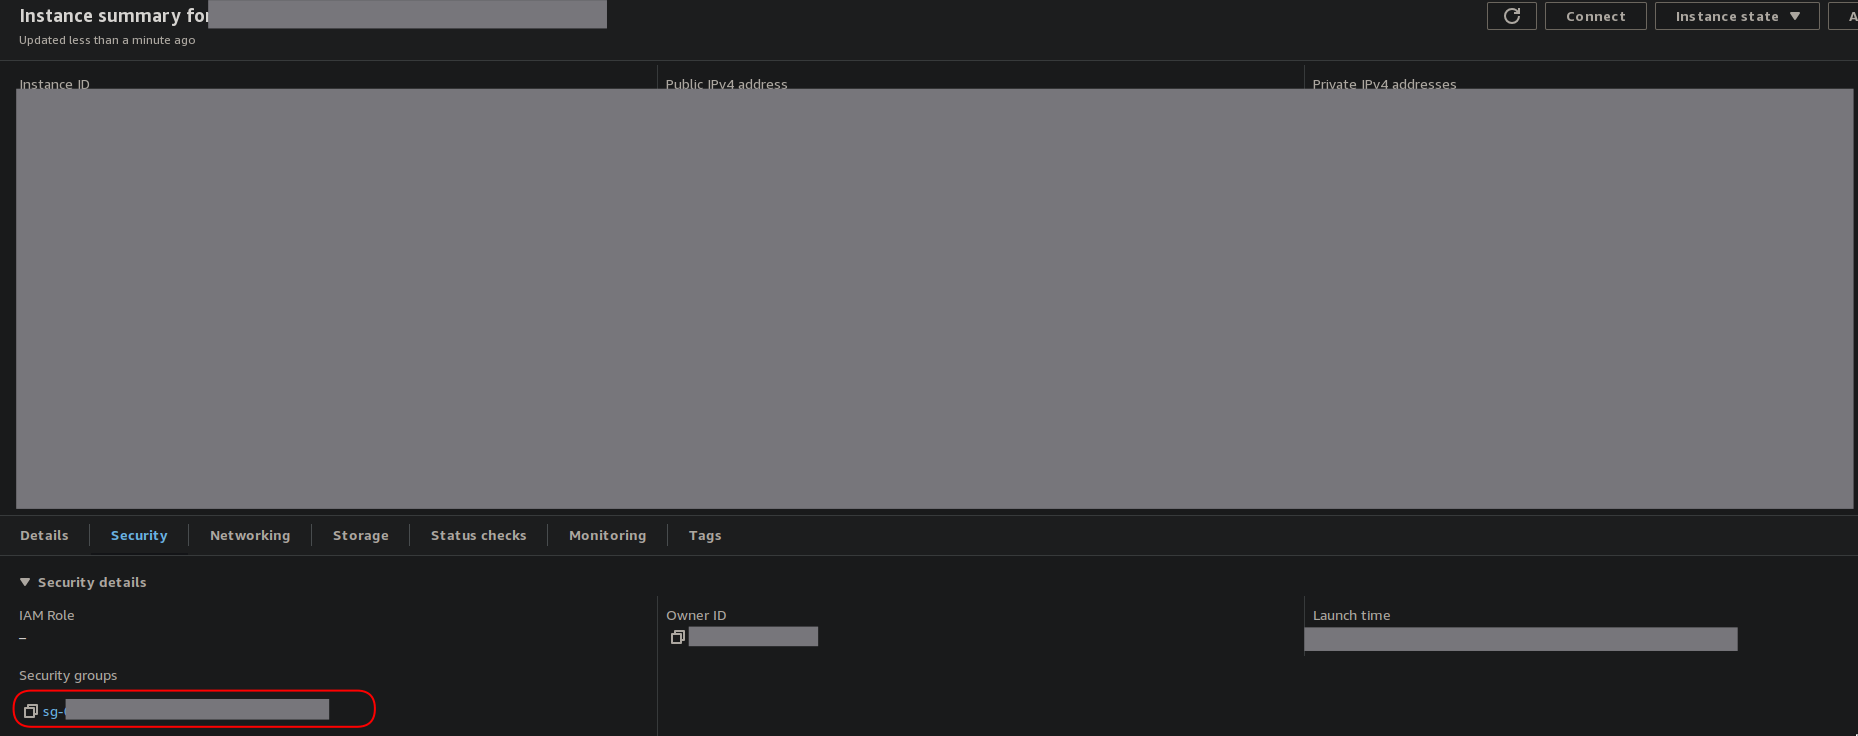
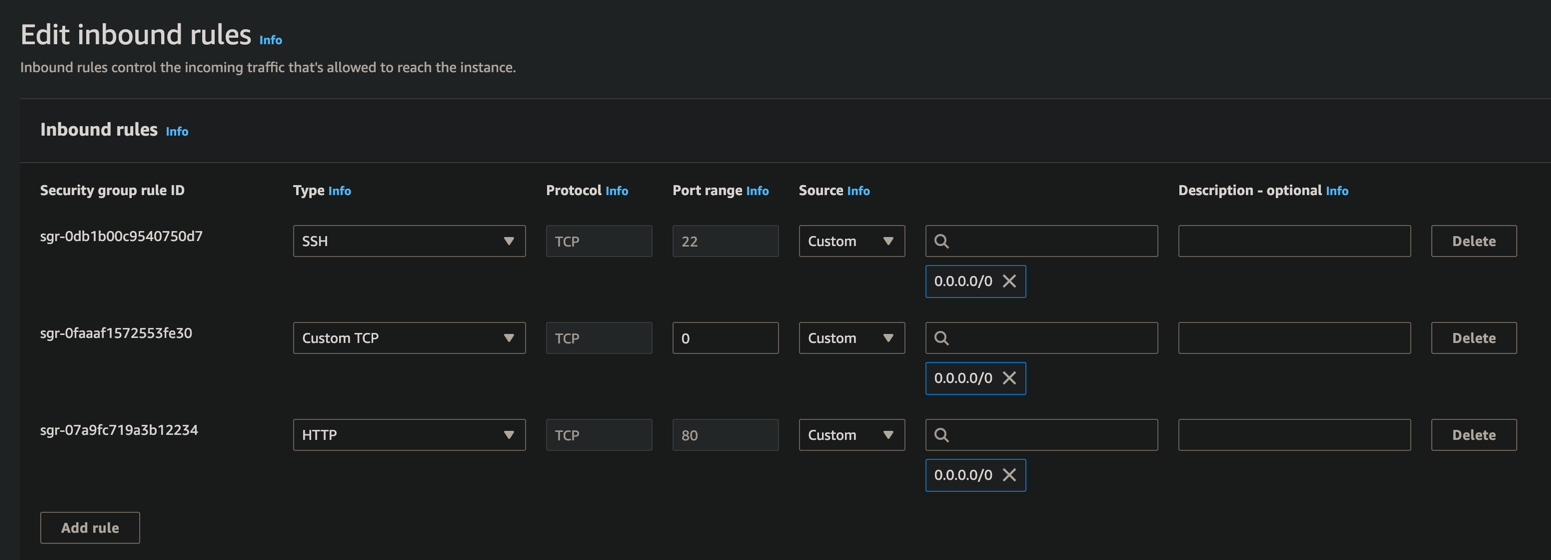
docs: update selfhost docs (#174)

diff --git a/doc/EC2_SELF_HOST_GUIDE.md b/doc/EC2_SELF_HOST_GUIDE.md
@@ -81,7 +81,11 @@ If you have any questions, please feel free to reach out to us on [Discord](http
    ```
 
 4. **Authentication Setup**:
-   Update OAuth redirect URIs in `.env` with your EC2 Public IPv4 DNS, e.g., `http:ec2-13-228-28-244.ap-southeast-1.compute.amazonaws.com/callback`. Refer to the [Authentication documentation](./AUTHENTICATION.md) for detailed setup instructions.
+   Open your .env file and update the OAuth redirect URIs with the Public IPv4 DNS of your EC2 instance. It should look something like this: http://ec2-13-228-28-244.ap-southeast-1.compute.amazonaws.com/gotrue/callback.
+   As an example, when configuring OAuth credentials in Google, it should resemble the image shown below:
+   ![img.png](../assets/images/google_callback_url.png)
+
+   For detailed setup instructions, refer to the Authentication documentation.
 
 5. **Start AppFlowy Services**:
    Launch the services using Docker Compose:
@@ -101,11 +105,10 @@ If you have any questions, please feel free to reach out to us on [Discord](http
 After installing AppFlowy-Cloud, the server will be serving at port 80 (http) and 443 (http).
 You might need to add Inbound Rule to expose the port.
 - To do so, go to EC2 -> Instances -> your instance id -> Security -> Click on the Security Group
-
-![Security Group Select](../assets/images/security_group.png)
-
 - Under Inbound Rules, Click "Edit inbound rules"
 - Click "Add Rule", select either http or https(if you have configured SSL Cert)
+  For example:
+  ![img_1.png](../assets/images/security_group.png)
 - Once done, you should be able to see the AppFlowy-Cloud admin page at `http://<your_ec2_host>/web/login`
 
 Note: There are certain risk involved in exposing ports in your EC2 Instances, this guide is for demonstration purposes and should not be used for production.
@@ -120,9 +123,8 @@ Once you've successfully set up AppFlowy Cloud on your server, the next step is 
 
 2. **Copy Configuration URLs**:
    - Use the following URLs as your environment secrets. These URLs correspond to the services running on your EC2 instance:
-      - `APPFLOWY_CLOUD_BASE_URL`: `http://ec2-13-228-28-244.ap-southeast-1.compute.amazonaws.com:8000`
-      - `APPFLOWY_CLOUD_WS_BASE_URL`: `ws://ec2-13-228-28-244.ap-southeast-1.compute.amazonaws.com:8000/ws`
-      - `APPFLOWY_CLOUD_GOTRUE_URL`: `http://ec2-13-228-28-244.ap-southeast-1.compute.amazonaws.com:9998`
+      - `APPFLOWY_CLOUD_BASE_URL`: `http://ec2-13-228-28-244.ap-southeast-1.compute.amazonaws.com`
+      - `APPFLOWY_CLOUD_WS_BASE_URL`: `ws://ec2-13-228-28-244.ap-southeast-1.compute.amazonaws.com/ws`
 
 3. **Configure the Client**:
    - Return to the [Building AppFlowy with a Self-hosted Server guide](https://docs.appflowy.io/docs/guides/appflowy/self-hosting-appflowy#step-2-building-appflowy-with-a-self-hosted-server).
@@ -169,9 +171,8 @@ If you're encountering difficulties redirecting to the AppFlowy application afte
 2. **Apply Similar Checks for Other OAuth Providers**:
    - Follow the same verification process for other OAuth providers like GitHub and Discord. Make sure their respective configurations are correctly set.
 
-   ![img.png](../assets/images/env_self_host.png)
-
    The provided image illustrates the correct configuration settings.
+   ![img.png](../assets/images/env_self_host.png)
 
 
 
